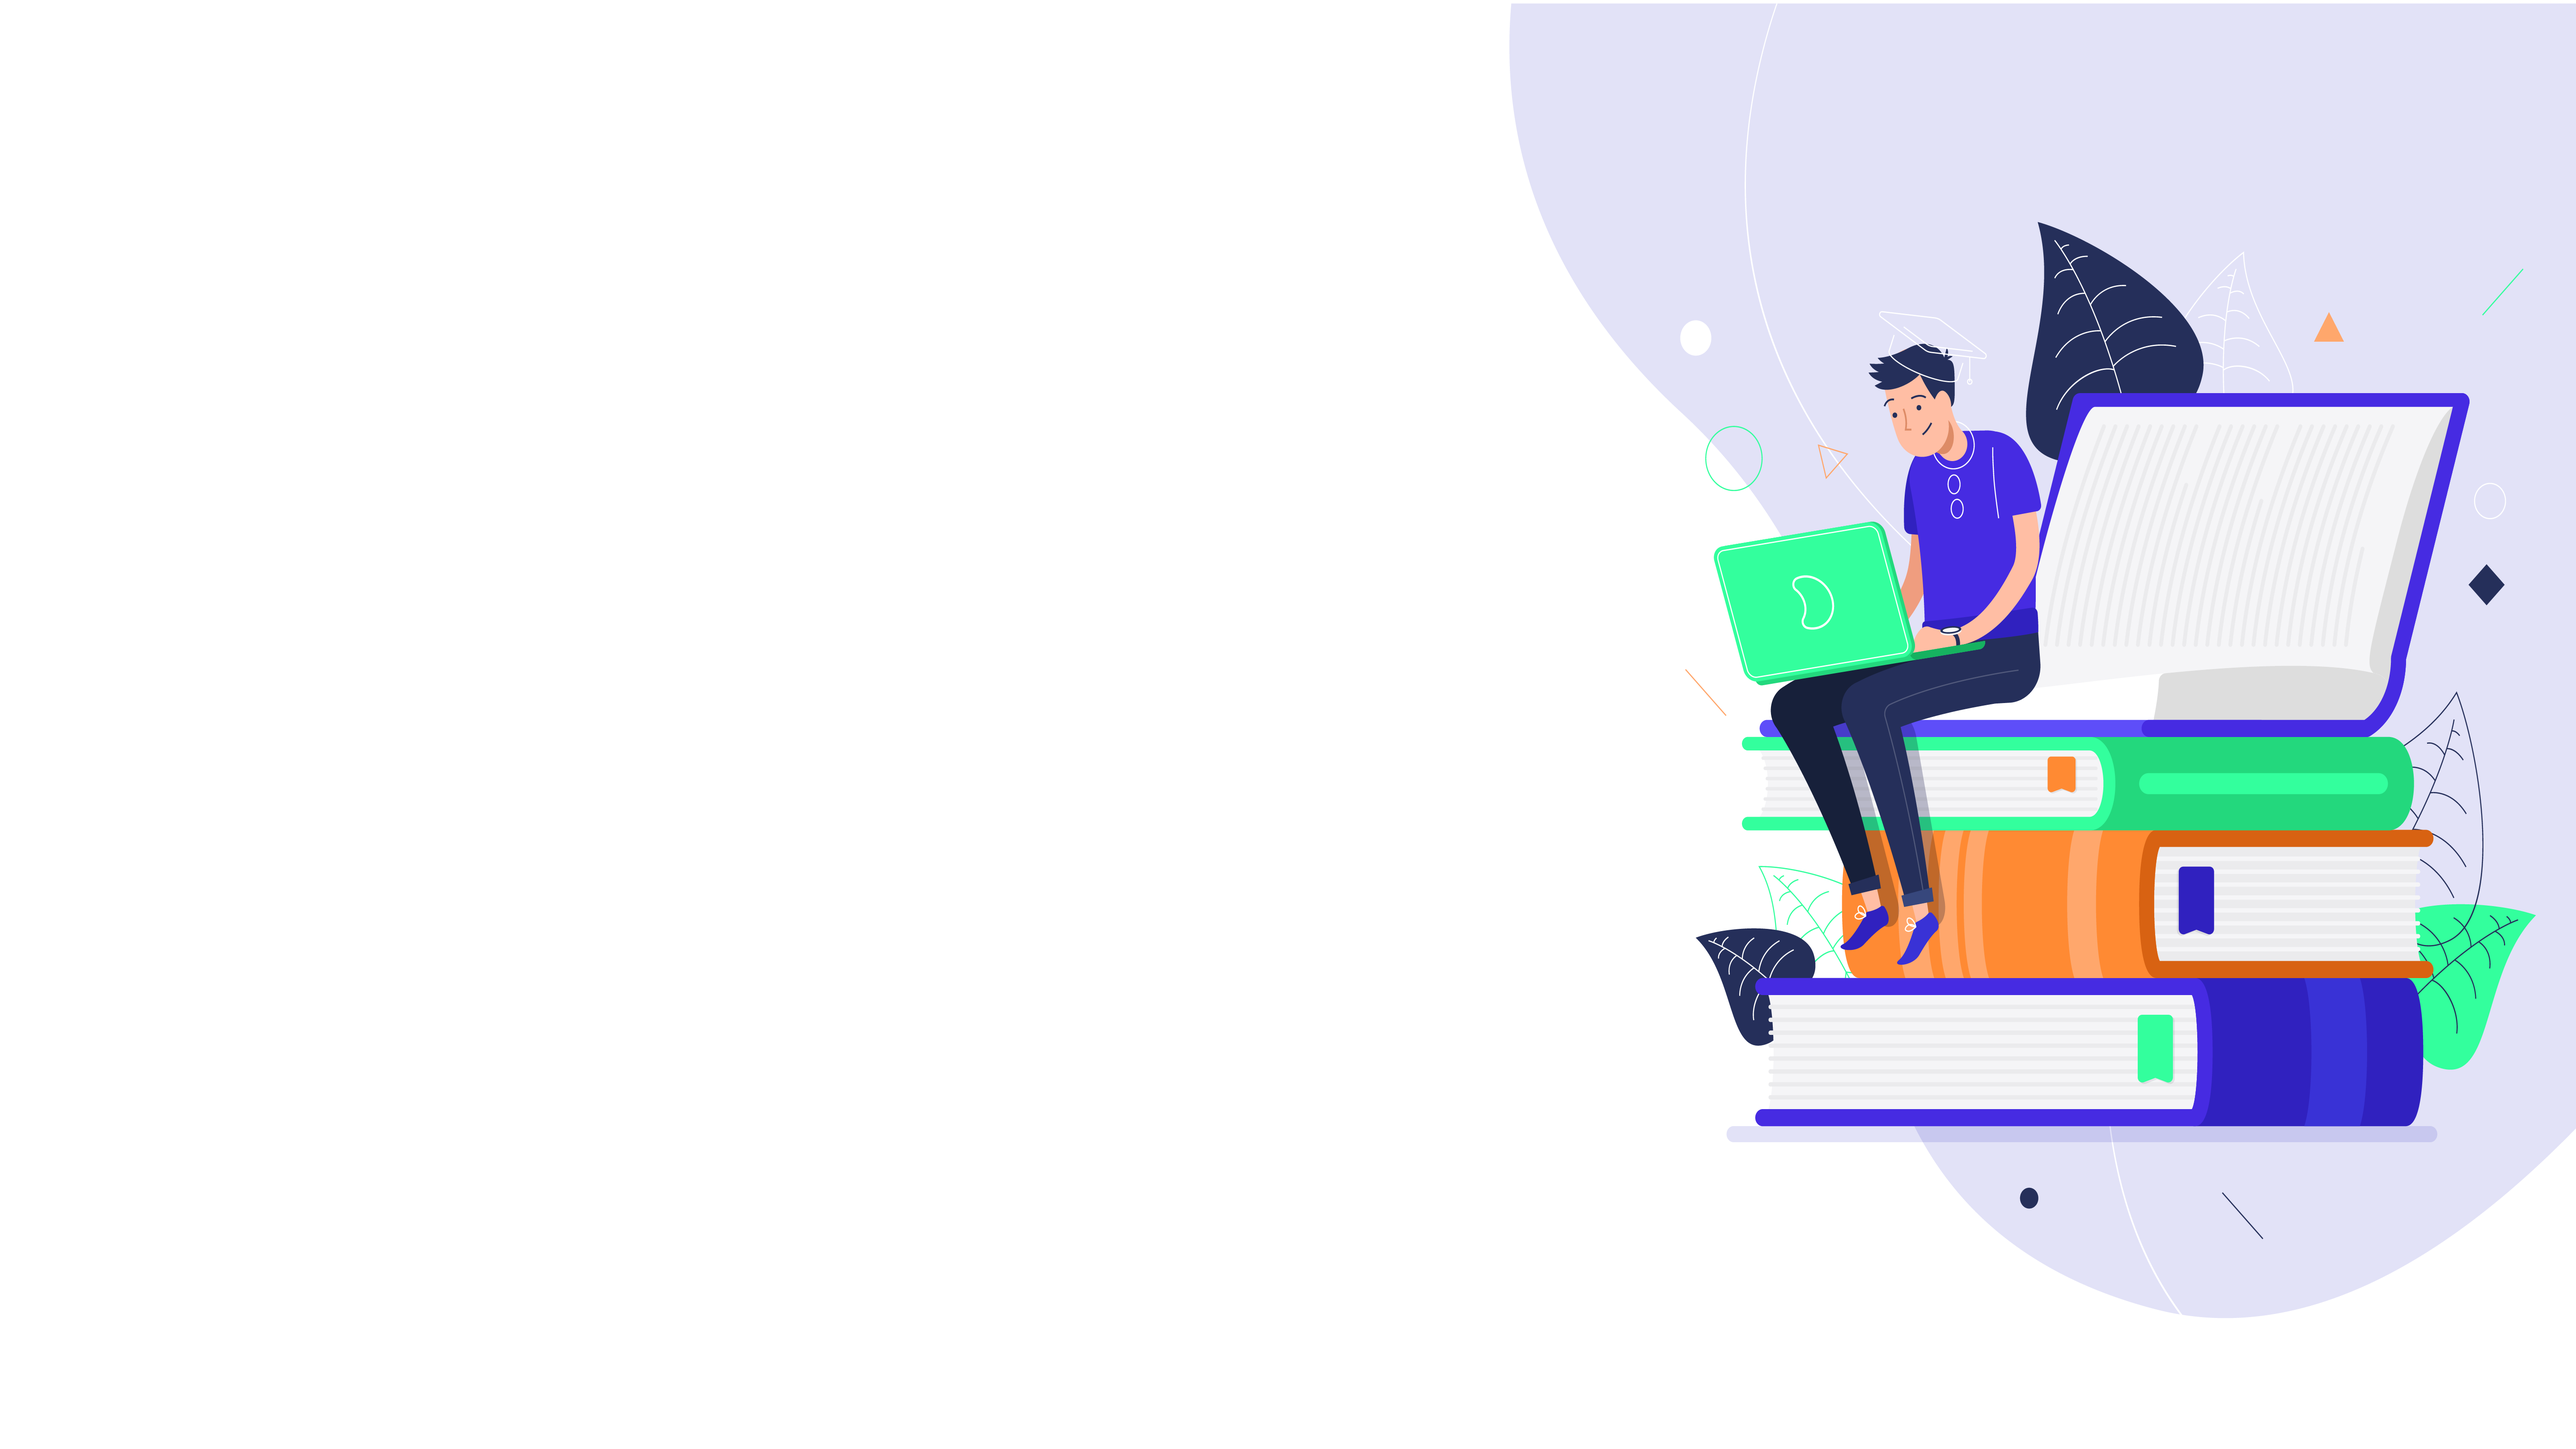
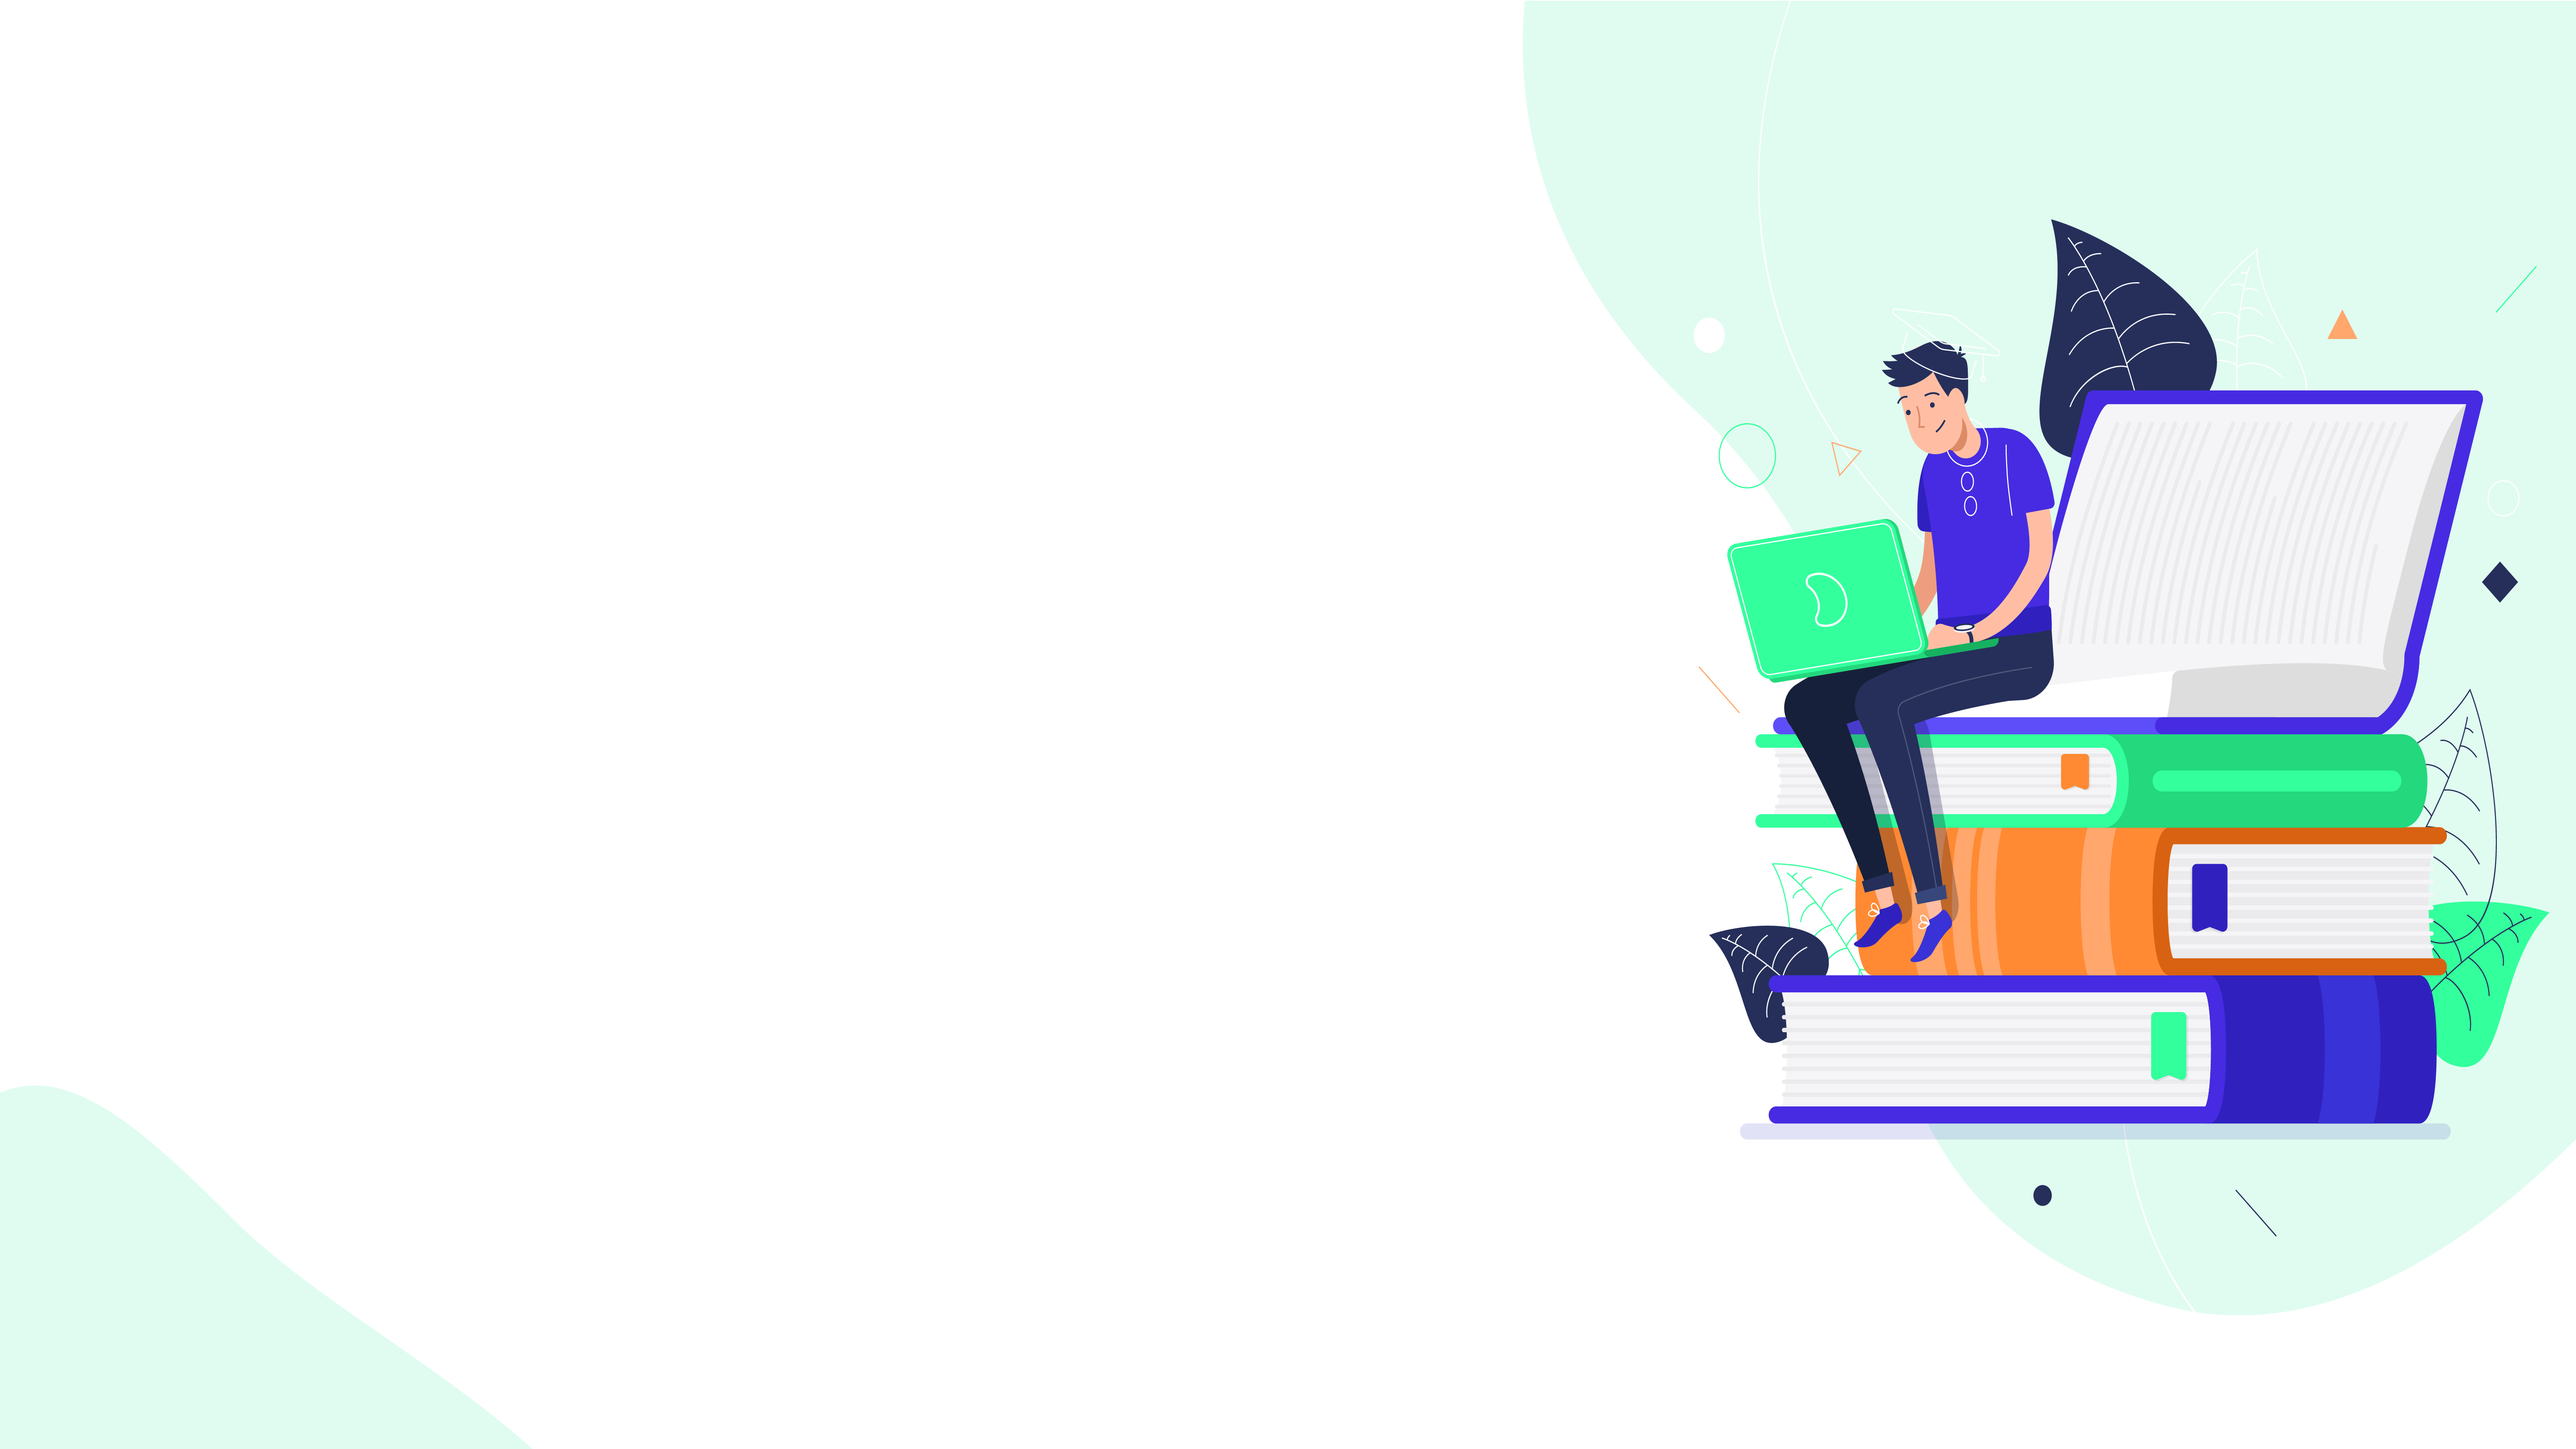
Added RLE Section 2 Gears

Changed region(s): [[0.5625, 0.0, 1.0, 0.9352], [0.0, 0.7481, 0.2188, 1.0]]

diff --git a/css/style.css b/css/style.css
@@ -2319,10 +2319,10 @@ iframe {
 
 .rle-section-1 {
   height: 100vh;
-  background: url(/images/rle-background1-temp.png);
-  background-size: cover;
+  background: url(/images/rle-background1.png);
+  background-size: 100% 100%;
   background-position: center center;
-  padding-top: 50px;
+  padding-top: 30px;
 }
 
 .rle-section-1-heading {
@@ -2348,4 +2348,17 @@ iframe {
 
 .rle-section-2 {
   height: 100vh;
+  background: url(/images/rle-background2.png);
+  background-size: 100% 100%;
+  background-position: center center;
+  padding-top: 50px;
+}
+
+.rle-section-2-gears {
+  margin-top: 30px;
+}
+
+.rle-section-2-gears h1 {
+  font-size: 45px;
+  font-weight: 700;
 }

diff --git a/index.html b/index.html
@@ -299,7 +299,17 @@
 		<!-- Section 2 -->
 
 		<div class="rle-section-2">
-
+			<div class="container">
+				<div class="row rle-section-2-gears">
+					<div class="col-md-5"></div>
+					<div class="col-md-7">
+						<h1>Gear Up</h1>
+						<h3>Reach your goals and gear up like a geek</h3>
+						<p>Actively contribute to the community and reach your individual goals within time & get exclusive goodies from us.</p>
+						<a href="https://www.meetup.com/geek-meetup-chennai/" class="btn-view">Fnplus Gears</a>
+					</div>
+				</div>
+			</div>
 		</div>
 	</div>
 
